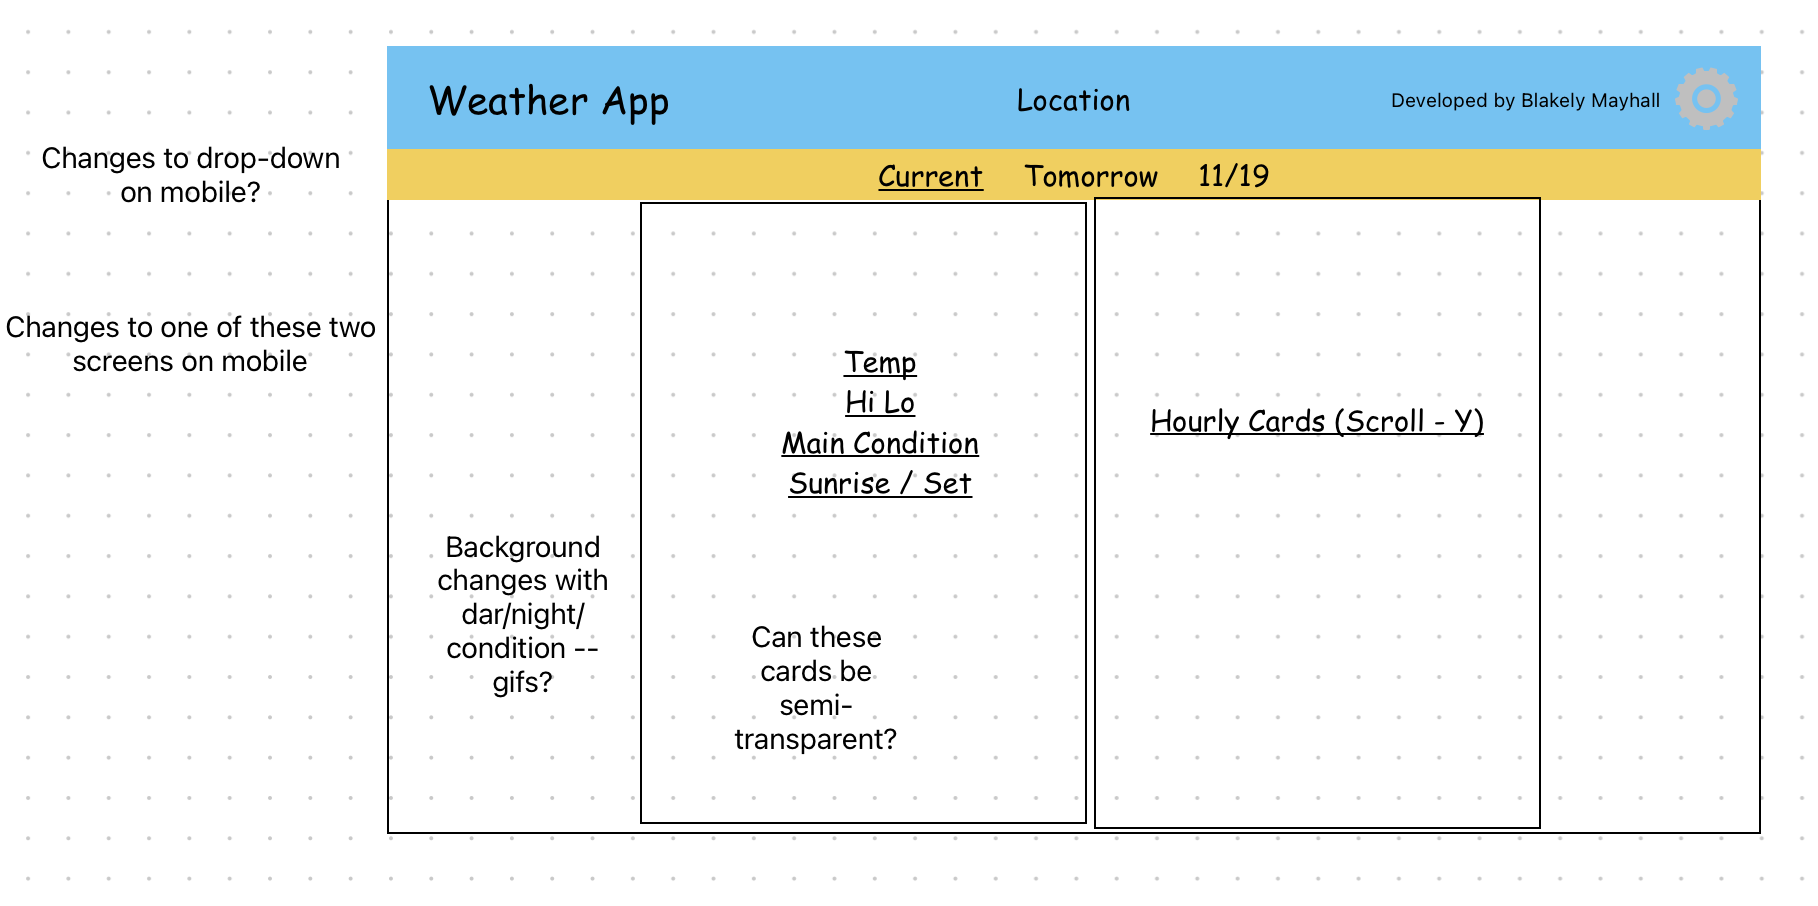
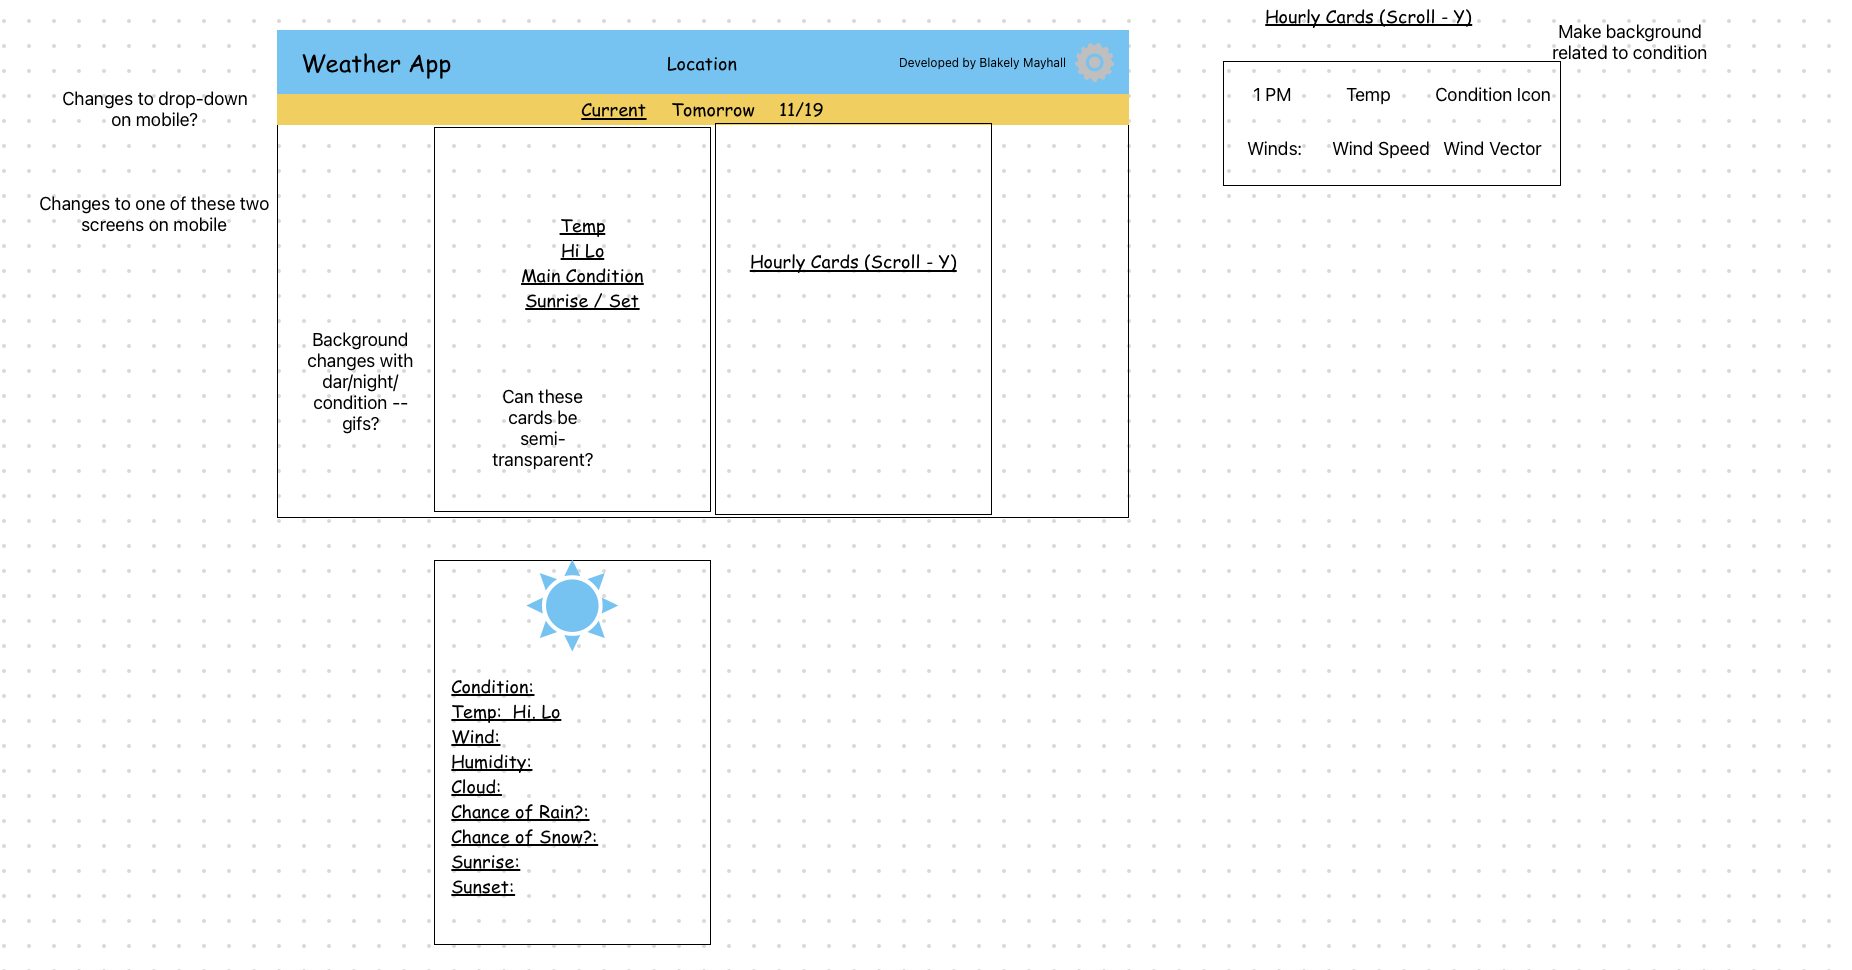
html skeleton made, started thinking about code design concept

diff --git a/dist/main.js b/dist/main.js
@@ -1,1 +1,1 @@
-(()=>{"use strict";var n,e,t,r,a,o,i,c,s,d,l,u,p,f,g={222:(n,e,t)=>{t.d(e,{Z:()=>c});var r=t(81),a=t.n(r),o=t(645),i=t.n(o)()(a());i.push([n.id,"* {\n    margin: 0;\n    padding: 0;\n}\n\nbody {\n    width: 100vw;\n    height: 100vh;\n}\n\nul {\n    list-style-type: none;\n}\n\n/* #region Header Bar */\n#headerBar, #headerBarFarRightSide {\n    display: flex;\n    justify-content: space-between;\n    align-items: center;\n    background: rgb(121, 198, 231);\n    height: 10%;\n}\n\n#headerBar {\n    padding-left: 2rem;\n}\n\n#headerBarFarRightSide {\n    gap: 20px;\n    padding-right: 2rem;\n}\n\n#headerBarLocation {\n    padding-left: 120px;\n}\n\n#headerBarSettings {\n    height: 600%;\n}\n/* #endregion */\n\n/* #region Nav Bar */\n#navBar {\n    display: flex;\n    justify-content: center;\n    align-items: center;\n    background: rgb(216, 231, 121);\n    height: 5%;\n    gap: 2rem;\n}\n\n/* #endregion */\n\n/* #region Main Window */\n#contentWindow {\n    display: flex;\n    background-color: orange;\n    height: 85%;\n    justify-content: center;\n    align-items: center;\n    gap: 1.6rem;\n}\n\n.windowCard {\n    height: 90%;\n    width: 25%;\n    background-color: gray;\n    border: medium solid black;\n    border-radius: 25px;\n    text-align: center;\n    padding: 1rem;\n}\n\n#leftCardCondition {\n    margin: auto;\n    height: 90px;\n}\n\n#leftCardContent {\n    margin-top: 1rem;\n    display: flex;\n    margin: 1rem;\n}\n\n#leftCardLabels {\n    text-align: left;\n    width: 50%;\n}\n\n#leftCardLabels li {\n    margin: 10px 0;\n}\n\n#rightCardLabels {\n    text-align: right;\n    width: 50%;\n}\n\n#rightCardLabels li {\n    margin: 5px 0;\n}\n\n/* #endregion */\n",""]);const c=i},645:n=>{n.exports=function(n){var e=[];return e.toString=function(){return this.map((function(e){var t="",r=void 0!==e[5];return e[4]&&(t+="@supports (".concat(e[4],") {")),e[2]&&(t+="@media ".concat(e[2]," {")),r&&(t+="@layer".concat(e[5].length>0?" ".concat(e[5]):""," {")),t+=n(e),r&&(t+="}"),e[2]&&(t+="}"),e[4]&&(t+="}"),t})).join("")},e.i=function(n,t,r,a,o){"string"==typeof n&&(n=[[null,n,void 0]]);var i={};if(r)for(var c=0;c<this.length;c++){var s=this[c][0];null!=s&&(i[s]=!0)}for(var d=0;d<n.length;d++){var l=[].concat(n[d]);r&&i[l[0]]||(void 0!==o&&(void 0===l[5]||(l[1]="@layer".concat(l[5].length>0?" ".concat(l[5]):""," {").concat(l[1],"}")),l[5]=o),t&&(l[2]?(l[1]="@media ".concat(l[2]," {").concat(l[1],"}"),l[2]=t):l[2]=t),a&&(l[4]?(l[1]="@supports (".concat(l[4],") {").concat(l[1],"}"),l[4]=a):l[4]="".concat(a)),e.push(l))}},e}},81:n=>{n.exports=function(n){return n[1]}},379:n=>{var e=[];function t(n){for(var t=-1,r=0;r<e.length;r++)if(e[r].identifier===n){t=r;break}return t}function r(n,r){for(var o={},i=[],c=0;c<n.length;c++){var s=n[c],d=r.base?s[0]+r.base:s[0],l=o[d]||0,u="".concat(d," ").concat(l);o[d]=l+1;var p=t(u),f={css:s[1],media:s[2],sourceMap:s[3],supports:s[4],layer:s[5]};if(-1!==p)e[p].references++,e[p].updater(f);else{var g=a(f,r);r.byIndex=c,e.splice(c,0,{identifier:u,updater:g,references:1})}i.push(u)}return i}function a(n,e){var t=e.domAPI(e);return t.update(n),function(e){if(e){if(e.css===n.css&&e.media===n.media&&e.sourceMap===n.sourceMap&&e.supports===n.supports&&e.layer===n.layer)return;t.update(n=e)}else t.remove()}}n.exports=function(n,a){var o=r(n=n||[],a=a||{});return function(n){n=n||[];for(var i=0;i<o.length;i++){var c=t(o[i]);e[c].references--}for(var s=r(n,a),d=0;d<o.length;d++){var l=t(o[d]);0===e[l].references&&(e[l].updater(),e.splice(l,1))}o=s}}},569:n=>{var e={};n.exports=function(n,t){var r=function(n){if(void 0===e[n]){var t=document.querySelector(n);if(window.HTMLIFrameElement&&t instanceof window.HTMLIFrameElement)try{t=t.contentDocument.head}catch(n){t=null}e[n]=t}return e[n]}(n);if(!r)throw new Error("Couldn't find a style target. This probably means that the value for the 'insert' parameter is invalid.");r.appendChild(t)}},216:n=>{n.exports=function(n){var e=document.createElement("style");return n.setAttributes(e,n.attributes),n.insert(e,n.options),e}},565:(n,e,t)=>{n.exports=function(n){var e=t.nc;e&&n.setAttribute("nonce",e)}},795:n=>{n.exports=function(n){if("undefined"==typeof document)return{update:function(){},remove:function(){}};var e=n.insertStyleElement(n);return{update:function(t){!function(n,e,t){var r="";t.supports&&(r+="@supports (".concat(t.supports,") {")),t.media&&(r+="@media ".concat(t.media," {"));var a=void 0!==t.layer;a&&(r+="@layer".concat(t.layer.length>0?" ".concat(t.layer):""," {")),r+=t.css,a&&(r+="}"),t.media&&(r+="}"),t.supports&&(r+="}");var o=t.sourceMap;o&&"undefined"!=typeof btoa&&(r+="\n/*# sourceMappingURL=data:application/json;base64,".concat(btoa(unescape(encodeURIComponent(JSON.stringify(o))))," */")),e.styleTagTransform(r,n,e.options)}(e,n,t)},remove:function(){!function(n){if(null===n.parentNode)return!1;n.parentNode.removeChild(n)}(e)}}}},589:n=>{n.exports=function(n,e){if(e.styleSheet)e.styleSheet.cssText=n;else{for(;e.firstChild;)e.removeChild(e.firstChild);e.appendChild(document.createTextNode(n))}}}},h={};function m(n){var e=h[n];if(void 0!==e)return e.exports;var t=h[n]={id:n,exports:{}};return g[n](t,t.exports,m),t.exports}m.n=n=>{var e=n&&n.__esModule?()=>n.default:()=>n;return m.d(e,{a:e}),e},m.d=(n,e)=>{for(var t in e)m.o(e,t)&&!m.o(n,t)&&Object.defineProperty(n,t,{enumerable:!0,get:e[t]})},m.o=(n,e)=>Object.prototype.hasOwnProperty.call(n,e),m.nc=void 0,n=m(379),e=m.n(n),t=m(795),r=m.n(t),a=m(569),o=m.n(a),i=m(565),c=m.n(i),s=m(216),d=m.n(s),l=m(589),u=m.n(l),p=m(222),(f={}).styleTagTransform=u(),f.setAttributes=c(),f.insert=o().bind(null,"head"),f.domAPI=r(),f.insertStyleElement=d(),e()(p.Z,f),p.Z&&p.Z.locals&&p.Z.locals})();
+(()=>{"use strict";var n,e,t,r,a,o,i,d,c,s,l,u,p,f,g={222:(n,e,t)=>{t.d(e,{Z:()=>d});var r=t(81),a=t.n(r),o=t(645),i=t.n(o)()(a());i.push([n.id,"* {\n    margin: 0;\n    padding: 0;\n}\n\nbody {\n    width: 100vw;\n    height: 100vh;\n}\n\nul {\n    list-style-type: none;\n}\n\n/* #region Header Bar */\n#headerBar, #headerBarFarRightSide {\n    display: flex;\n    justify-content: space-between;\n    align-items: center;\n    background: rgb(121, 198, 231);\n    height: 10%;\n}\n\n#headerBar {\n    padding-left: 2rem;\n}\n\n#headerBarFarRightSide {\n    gap: 20px;\n    padding-right: 2rem;\n}\n\n#headerBarLocation {\n    padding-left: 120px;\n}\n\n#headerBarSettings {\n    height: 600%;\n}\n/* #endregion */\n\n/* #region Nav Bar */\n#navBar {\n    display: flex;\n    justify-content: center;\n    align-items: center;\n    background: rgb(216, 231, 121);\n    height: 5%;\n    gap: 2rem;\n}\n\n/* #endregion */\n\n/* #region Main Window */\n#contentWindow {\n    display: flex;\n    background-color: orange;\n    height: 85%;\n    justify-content: center;\n    align-items: center;\n    gap: 1.6rem;\n}\n\n.windowCard {\n    height: 90%;\n    width: 25%;\n    background-color: gray;\n    border: medium solid black;\n    border-radius: 25px;\n    text-align: center;\n    padding: 1rem;\n}\n\n/* #region Left Card */\n\n#leftCardCondition {\n    margin: auto;\n    height: 90px;\n}\n\n#leftCardContent {\n    margin-top: 1rem;\n    display: flex;\n    margin: 1rem;\n    font-size: 1.2rem;\n}\n\n#leftCardLabels {\n    text-align: left;\n    width: 50%;\n}\n\n#leftCardLabels li {\n    margin: 10px 0;\n}\n\n#leftCardValues {\n    text-align: right;\n    width: 50%;\n}\n\n#leftCardValues li {\n    margin: 10px 0;\n}\n\n/* #region Right Card */\n#rightCard {\n    overflow-y: scroll;\n}\n\n.hourCard {\n    margin-bottom: 5px;\n    height: 20%;\n    width: 100%;\n    background-color: white;\n    display: grid;\n    border: medium solid black;\n    border-radius: 25px;\n    grid-template-columns: 33% 33% 33%;\n    grid-template-rows: 50% 50%;\n}\n\n.cardCell {\n    display: flex;\n    justify-content: center;\n    align-items: center;\n}\n\n/* #endregion */\n",""]);const d=i},645:n=>{n.exports=function(n){var e=[];return e.toString=function(){return this.map((function(e){var t="",r=void 0!==e[5];return e[4]&&(t+="@supports (".concat(e[4],") {")),e[2]&&(t+="@media ".concat(e[2]," {")),r&&(t+="@layer".concat(e[5].length>0?" ".concat(e[5]):""," {")),t+=n(e),r&&(t+="}"),e[2]&&(t+="}"),e[4]&&(t+="}"),t})).join("")},e.i=function(n,t,r,a,o){"string"==typeof n&&(n=[[null,n,void 0]]);var i={};if(r)for(var d=0;d<this.length;d++){var c=this[d][0];null!=c&&(i[c]=!0)}for(var s=0;s<n.length;s++){var l=[].concat(n[s]);r&&i[l[0]]||(void 0!==o&&(void 0===l[5]||(l[1]="@layer".concat(l[5].length>0?" ".concat(l[5]):""," {").concat(l[1],"}")),l[5]=o),t&&(l[2]?(l[1]="@media ".concat(l[2]," {").concat(l[1],"}"),l[2]=t):l[2]=t),a&&(l[4]?(l[1]="@supports (".concat(l[4],") {").concat(l[1],"}"),l[4]=a):l[4]="".concat(a)),e.push(l))}},e}},81:n=>{n.exports=function(n){return n[1]}},379:n=>{var e=[];function t(n){for(var t=-1,r=0;r<e.length;r++)if(e[r].identifier===n){t=r;break}return t}function r(n,r){for(var o={},i=[],d=0;d<n.length;d++){var c=n[d],s=r.base?c[0]+r.base:c[0],l=o[s]||0,u="".concat(s," ").concat(l);o[s]=l+1;var p=t(u),f={css:c[1],media:c[2],sourceMap:c[3],supports:c[4],layer:c[5]};if(-1!==p)e[p].references++,e[p].updater(f);else{var g=a(f,r);r.byIndex=d,e.splice(d,0,{identifier:u,updater:g,references:1})}i.push(u)}return i}function a(n,e){var t=e.domAPI(e);return t.update(n),function(e){if(e){if(e.css===n.css&&e.media===n.media&&e.sourceMap===n.sourceMap&&e.supports===n.supports&&e.layer===n.layer)return;t.update(n=e)}else t.remove()}}n.exports=function(n,a){var o=r(n=n||[],a=a||{});return function(n){n=n||[];for(var i=0;i<o.length;i++){var d=t(o[i]);e[d].references--}for(var c=r(n,a),s=0;s<o.length;s++){var l=t(o[s]);0===e[l].references&&(e[l].updater(),e.splice(l,1))}o=c}}},569:n=>{var e={};n.exports=function(n,t){var r=function(n){if(void 0===e[n]){var t=document.querySelector(n);if(window.HTMLIFrameElement&&t instanceof window.HTMLIFrameElement)try{t=t.contentDocument.head}catch(n){t=null}e[n]=t}return e[n]}(n);if(!r)throw new Error("Couldn't find a style target. This probably means that the value for the 'insert' parameter is invalid.");r.appendChild(t)}},216:n=>{n.exports=function(n){var e=document.createElement("style");return n.setAttributes(e,n.attributes),n.insert(e,n.options),e}},565:(n,e,t)=>{n.exports=function(n){var e=t.nc;e&&n.setAttribute("nonce",e)}},795:n=>{n.exports=function(n){if("undefined"==typeof document)return{update:function(){},remove:function(){}};var e=n.insertStyleElement(n);return{update:function(t){!function(n,e,t){var r="";t.supports&&(r+="@supports (".concat(t.supports,") {")),t.media&&(r+="@media ".concat(t.media," {"));var a=void 0!==t.layer;a&&(r+="@layer".concat(t.layer.length>0?" ".concat(t.layer):""," {")),r+=t.css,a&&(r+="}"),t.media&&(r+="}"),t.supports&&(r+="}");var o=t.sourceMap;o&&"undefined"!=typeof btoa&&(r+="\n/*# sourceMappingURL=data:application/json;base64,".concat(btoa(unescape(encodeURIComponent(JSON.stringify(o))))," */")),e.styleTagTransform(r,n,e.options)}(e,n,t)},remove:function(){!function(n){if(null===n.parentNode)return!1;n.parentNode.removeChild(n)}(e)}}}},589:n=>{n.exports=function(n,e){if(e.styleSheet)e.styleSheet.cssText=n;else{for(;e.firstChild;)e.removeChild(e.firstChild);e.appendChild(document.createTextNode(n))}}}},h={};function m(n){var e=h[n];if(void 0!==e)return e.exports;var t=h[n]={id:n,exports:{}};return g[n](t,t.exports,m),t.exports}m.n=n=>{var e=n&&n.__esModule?()=>n.default:()=>n;return m.d(e,{a:e}),e},m.d=(n,e)=>{for(var t in e)m.o(e,t)&&!m.o(n,t)&&Object.defineProperty(n,t,{enumerable:!0,get:e[t]})},m.o=(n,e)=>Object.prototype.hasOwnProperty.call(n,e),m.nc=void 0,n=m(379),e=m.n(n),t=m(795),r=m.n(t),a=m(569),o=m.n(a),i=m(565),d=m.n(i),c=m(216),s=m.n(c),l=m(589),u=m.n(l),p=m(222),(f={}).styleTagTransform=u(),f.setAttributes=d(),f.insert=o().bind(null,"head"),f.domAPI=r(),f.insertStyleElement=s(),e()(p.Z,f),p.Z&&p.Z.locals&&p.Z.locals})();

diff --git a/dist/index.html b/dist/index.html
@@ -37,13 +37,142 @@
           <li>Sunrise:</li>
           <li>Sunset:</li>
         </ul>
-        <ul id="rightCardLabels">
-          <li>ConditionValue</li>
+        <ul id="leftCardValues">
+          <li id="conditionVal">ConditionValue</li>
+          <li id="tempVal">Value(s)</li>
+          <li>Value(s)</li>
+          <li>Value(s)</li>
+          <li>Value(s)</li>
+          <li>Value(s)</li>
+          <li>Value(s)</li>
+          <li>Value(s)</li>
+          <li>Value(s)</li>
+          <li>Value(s)</li>
+          <li>Value(s)</li>
         </ul>
       </div>
     </div>
     <div id="rightCard" class="windowCard">
-      
+      <div class="hourCard">
+        <div class="cardCell">
+          <p class="hour">12:00 AM</p>
+        </div>
+        <div class="cardCell">
+          <p class="temp">58&degF</p>
+        </div>
+        <div class="cardCell">
+          <p class="condition">OO</p>
+        </div>
+        <div class="cardCell">
+          <p class="windLabel">Winds:</p>
+        </div>
+        <div class="cardCell">
+          <p class="windLabel">14 kts</p>
+        </div>
+        <div class="cardCell">
+          <p class="windArrow">-></p>
+        </div>
+      </div>
+      <div class="hourCard">
+        <div class="cardCell">
+          <p class="hour">12:00 AM</p>
+        </div>
+        <div class="cardCell">
+          <p class="temp">58&degF</p>
+        </div>
+        <div class="cardCell">
+          <p class="condition">OO</p>
+        </div>
+        <div class="cardCell">
+          <p class="windLabel">Winds:</p>
+        </div>
+        <div class="cardCell">
+          <p class="windLabel">14 kts</p>
+        </div>
+        <div class="cardCell">
+          <p class="windArrow">-></p>
+        </div>
+      </div>
+      <div class="hourCard">
+        <div class="cardCell">
+          <p class="hour">12:00 AM</p>
+        </div>
+        <div class="cardCell">
+          <p class="temp">58&degF</p>
+        </div>
+        <div class="cardCell">
+          <p class="condition">OO</p>
+        </div>
+        <div class="cardCell">
+          <p class="windLabel">Winds:</p>
+        </div>
+        <div class="cardCell">
+          <p class="windLabel">14 kts</p>
+        </div>
+        <div class="cardCell">
+          <p class="windArrow">-></p>
+        </div>
+      </div>
+      <div class="hourCard">
+        <div class="cardCell">
+          <p class="hour">12:00 AM</p>
+        </div>
+        <div class="cardCell">
+          <p class="temp">58&degF</p>
+        </div>
+        <div class="cardCell">
+          <p class="condition">OO</p>
+        </div>
+        <div class="cardCell">
+          <p class="windLabel">Winds:</p>
+        </div>
+        <div class="cardCell">
+          <p class="windLabel">14 kts</p>
+        </div>
+        <div class="cardCell">
+          <p class="windArrow">-></p>
+        </div>
+      </div>
+      <div class="hourCard">
+        <div class="cardCell">
+          <p class="hour">12:00 AM</p>
+        </div>
+        <div class="cardCell">
+          <p class="temp">58&degF</p>
+        </div>
+        <div class="cardCell">
+          <p class="condition">OO</p>
+        </div>
+        <div class="cardCell">
+          <p class="windLabel">Winds:</p>
+        </div>
+        <div class="cardCell">
+          <p class="windLabel">14 kts</p>
+        </div>
+        <div class="cardCell">
+          <p class="windArrow">-></p>
+        </div>
+      </div>
+      <div class="hourCard">
+        <div class="cardCell">
+          <p class="hour">12:00 AM</p>
+        </div>
+        <div class="cardCell">
+          <p class="temp">58&degF</p>
+        </div>
+        <div class="cardCell">
+          <p class="condition">OO</p>
+        </div>
+        <div class="cardCell">
+          <p class="windLabel">Winds:</p>
+        </div>
+        <div class="cardCell">
+          <p class="windLabel">14 kts</p>
+        </div>
+        <div class="cardCell">
+          <p class="windArrow">-></p>
+        </div>
+      </div>
     </div>
   </div>
 </body>

diff --git a/src/style/styles.css b/src/style/styles.css
@@ -71,6 +71,8 @@ ul {
     padding: 1rem;
 }
 
+/* #region Left Card */
+
 #leftCardCondition {
     margin: auto;
     height: 90px;
@@ -80,6 +82,7 @@ ul {
     margin-top: 1rem;
     display: flex;
     margin: 1rem;
+    font-size: 1.2rem;
 }
 
 #leftCardLabels {
@@ -91,13 +94,36 @@ ul {
     margin: 10px 0;
 }
 
-#rightCardLabels {
+#leftCardValues {
     text-align: right;
     width: 50%;
 }
 
-#rightCardLabels li {
-    margin: 5px 0;
+#leftCardValues li {
+    margin: 10px 0;
+}
+
+/* #region Right Card */
+#rightCard {
+    overflow-y: scroll;
+}
+
+.hourCard {
+    margin-bottom: 5px;
+    height: 20%;
+    width: 100%;
+    background-color: white;
+    display: grid;
+    border: medium solid black;
+    border-radius: 25px;
+    grid-template-columns: 33% 33% 33%;
+    grid-template-rows: 50% 50%;
+}
+
+.cardCell {
+    display: flex;
+    justify-content: center;
+    align-items: center;
 }
 
 /* #endregion */

diff --git a/src/main.js b/src/main.js
@@ -1,17 +1,18 @@
 import "./style/styles.css";
 
-// const clickMeButton = document.querySelector("button");
-// clickMeButton.addEventListener("click", () => {
-//     getWeatherData();
-// });
 
+
+
+
+
+// getWeatherData();
 // async function getWeatherData() {
 //     const api =
 //         "http://api.weatherapi.com/v1/forecast.json?key=81118de3a27c4287bd233838231611&q=63101&days=3&aqi=no&alerts=no";
-//     const response = await fetch(api, { mode: "cors" });
+//     let response = await fetch(api, { mode: "cors" });
+//     response = await response.json();
 //     console.log(response);
 // }
-
 // Current API
 // http://api.weatherapi.com/v1/current.json?key=81118de3a27c4287bd233838231611&q=63101&aqi=no
 // Forecast API

diff --git a/.eslintrc.js b/.eslintrc.js
@@ -1,3 +1,4 @@
+/* eslint-disable prettier/prettier */
 module.exports = {
     "env": {
         "browser": true,
@@ -25,7 +26,7 @@ module.exports = {
         "sourceType": "module"
     },
     "rules": {
-        "prettier/prettier": "error"
+        "prettier/prettier": ["error", { tabWidth: 4 }]
     },
     "plugins": [
         "prettier"

diff --git a/src/headerbar.js b/src/headerbar.js
@@ -1,0 +1,13 @@
+const HeaderBar = () => {
+    // let location
+};
+
+const HeaderBarView = () => {
+    // methods that manip the dom?
+};
+
+const HeaderBarController = () => {
+    // methods for changing the values in model
+};
+
+export { HeaderBar, HeaderBarView, HeaderBarController };

diff --git a/README.md b/README.md
@@ -12,4 +12,14 @@ Repo for the weather app project in the javascript course of the Odin Project
 - Quick stab at the design:
     - ![Alt text](design/design.png)
     
+### 11/20/23
+- Got the initial html set up. Its pretty ugly, will need some cleaning, but I will try a different approach this time and focus on that near the end
+- Going to try to recall some model-view-controller stuff from the Swift lessons I did a while ago 
+    - Last project got a bit ugly with just a "DomManager"...
+
 # Todo
+- Implement MVC for the header bar location
+    - Add a button to enter location
+        - Maybe a browser alert window.. don't think a form is needed
+        - Look into ways to input location data. Don't want to open a rabbit hole here.
+    - Default locaiton to St Louis
